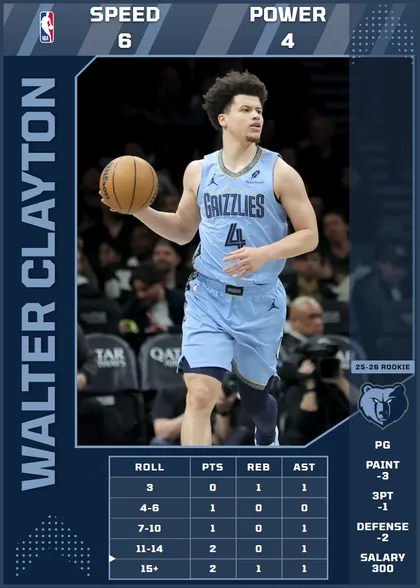
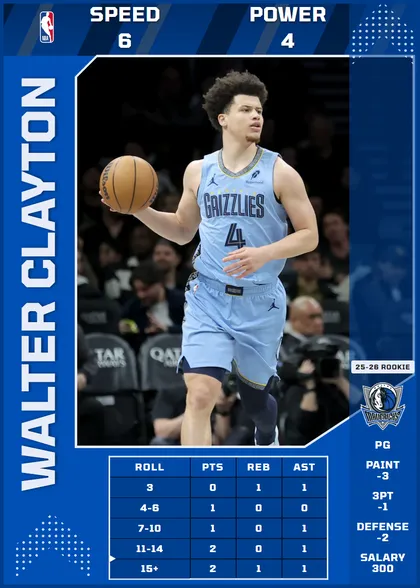
cards: rosters after the training-camp cuts
nba.com's rosters on 2026-10-22: Walter Clayton Jr. MEM -> DAL; Bruce
Brown, Micah Peavy, Dwight Powell and Drew Eubanks are on no roster and
turn Free Agent (12 FAs now). generateCards.js changed only team; the
five faces are re-exported. NEWS item.

diff --git a/src/game/home.js b/src/game/home.js
@@ -29,6 +29,11 @@ export const HOME_SECTIONS = { shop: 'shop', goals: 'goals', mycards: 'collectio
 
 export const NEWS = [
   {
+    id: 'rosters-after-camp-cuts', date: '2026-10-22', title: 'Rosters after the camp cuts',
+    body: "Walter Clayton Jr. is a Maverick now. And four more 2026-27 cards belong to players no NBA team kept after training camp: Bruce Brown, Micah Peavy, Dwight Powell and Drew Eubanks. They are Free Agents now, on the plain FA card: no collection asks for them and no pack deals them, and a copy you own still plays, burns and sells. When one signs, they join their new team and the packs again.",
+    to: 'goals', cta: 'Collections',
+  },
+  {
     id: 'climb-sign-and-release', date: '2026-10-21', title: 'The Climb: every Rivalry pays a player, even at a full roster',
     body: "A Rivalry win always offers a player again, Act II and III included. A full roster of ten (or a cap with no room) used to empty the offer; now the three players come anyway, and you sign one by releasing a player of yours, who leaves the run with their perks. Game drops work the same way. With rosters that keep improving, Acts II and III were re-tuned to stay hard: Act II's teams and boss are bigger, and Act III is played against classic teams. And a timeout now holds the other team: nobody on the other side rolls until play resumes.",
     to: 'climb', cta: 'The Climb',
